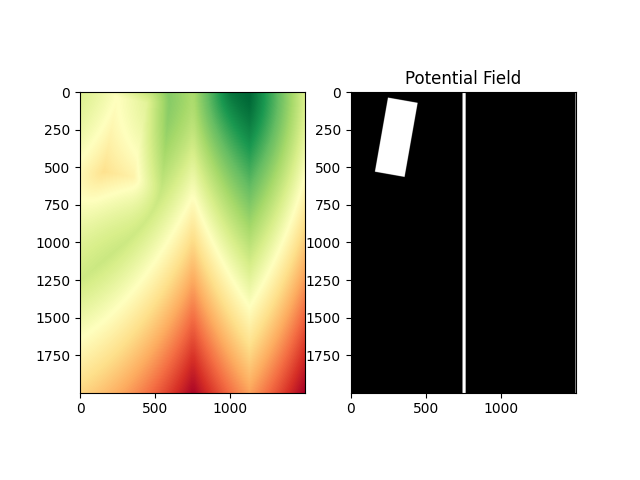
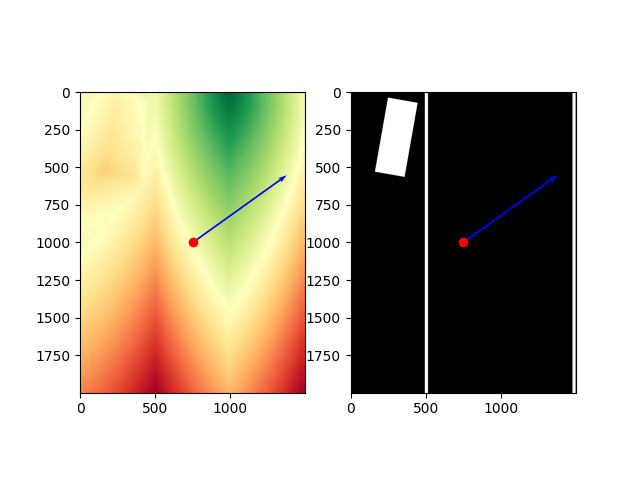
add first working demo

diff --git a/potential_field_sim/potentialField.py b/potential_field_sim/potentialField.py
@@ -1,5 +1,5 @@
-from skimage.draw import polygon
 from scipy.ndimage import distance_transform_edt
+from skimage.draw import polygon
 import numpy as np
 import matplotlib.pyplot as plt
 
@@ -12,16 +12,23 @@ class PotentialField:
     Its Goal is, to use the Resulting force of a Force field to ensure
     smooth steering around potential obstacles.
     """
-    def __init__(self, slope_angle: float,
-                 obstructions: list[Obstruction],
-                 next_waypoint: tuple[float],
-                 dimensions: tuple[float] = (20, 15)) -> None:
+
+    def __init__(
+        self,
+        slope_angle: float,
+        obstructions: list[Obstruction],
+        next_waypoint: tuple[float],
+        dimensions: tuple[float] = (20, 15),
+    ) -> None:
 
         self.slope_angle: float = slope_angle
         self.obstructions: list[Obstruction] = obstructions
-        self.DIMENSIONS = [dimension*100 for dimension in dimensions]
+        self.DIMENSIONS = [dimension * 100 for dimension in dimensions]
         self.field = None
         self.obstruction_map = None
+        self.gradient = None
+        self.car_position = (self.DIMENSIONS[1] // 2, self.DIMENSIONS[0] // 2)
+        self.force_vector = None
 
         self.generate_field()
 
@@ -33,7 +40,7 @@ class PotentialField:
         """
         self.obstructions.append(obstruction)
         self.generate_field()
-    
+
     def get_vector(self, waypoint: tuple[float]) -> tuple[float]:
         """Calcutlates the Direction and Strength of the Resulting
         Force of the Potential Field
@@ -49,19 +56,26 @@ class PotentialField:
         # Obstacle Heatmap
         distances = distance_transform_edt(self.field == 0)
 
-        k = .001
+        k = 0.001
         smoothed_values = np.exp(-k * distances)
         self.field[self.field == 0] = smoothed_values[self.field == 0]
 
         # Waypoint Following
-        x, y = np.meshgrid(range(self.DIMENSIONS[1]),
-                           range(self.DIMENSIONS[0]))
+        x, y = np.meshgrid(range(self.DIMENSIONS[1]), range(self.DIMENSIONS[0]))
 
-        distances = np.sqrt((x-waypoint[0])**2 + (y-waypoint[1])**2)
-        gradient = (distances / distances.max())
-        self.field += gradient
+        distances = np.sqrt((x - waypoint[0]) ** 2 + (y - waypoint[1]) ** 2)
+        slope = distances / distances.max()
+        self.field += slope
 
-        return (0, 0)
+        gradient_y, gradient_x = np.gradient(self.field)
+
+        gradient_at_car_x = gradient_x[self.car_position]
+        gradient_at_car_y = gradient_y[self.car_position]
+
+        self.force_vector = (gradient_at_car_x, gradient_at_car_y)
+
+        print(self.force_vector)
+        return self.force_vector
 
     def generate_field(self):
         """generates the field.
@@ -74,7 +88,7 @@ class PotentialField:
         if self.field is None:
             # generate the field with a resolution of 1 cm.
             self.field = np.zeros(self.DIMENSIONS, dtype=np.float32)
-        
+
         if self.obstruction_map is None:
             self.obstruction_map = np.zeros(self.DIMENSIONS, dtype=np.float32)
 
@@ -82,13 +96,49 @@ class PotentialField:
         for obstruction in self.obstructions:
             self.place_obstruction(obstruction=obstruction)
 
-    def plot(self, save=False, show=True) -> None:
-        """shows the field
-        """
+    def plot(self, save=False, show=True, plot_car=True, plot_vector=True) -> None:
+        """shows the field"""
+
+        VECTORSCALE = 1e6
+
         fig, axes = plt.subplots(1, 2)
         axes[0].imshow(self.field, cmap="RdYlGn_r")
         axes[1].imshow(self.obstruction_map, cmap="grey")
-        plt.title("Potential Field")
+        if plot_car:
+            axes[0].scatter(
+                self.car_position[0],
+                self.car_position[1],
+                color="red",
+                label="Car Position",
+                zorder=5,
+            )
+            axes[1].scatter(
+                self.car_position[0],
+                self.car_position[1],
+                color="red",
+                label="Car Position",
+                zorder=5,
+            )
+        if plot_vector:
+            axes[0].quiver(
+                self.car_position[0],
+                self.car_position[1],
+                self.force_vector[0] * VECTORSCALE,
+                self.force_vector[1] * VECTORSCALE,
+                color="blue",
+                scale_units="xy",
+                scale=1,
+            )
+            axes[1].quiver(
+                self.car_position[0],
+                self.car_position[1],
+                self.force_vector[0] * VECTORSCALE,
+                self.force_vector[1] * VECTORSCALE,
+                color="blue",
+                scale_units="xy",
+                scale=1,
+            )
+
         if save:
             plt.savefig("potential_field.png")
         if show:
@@ -101,21 +151,31 @@ class PotentialField:
             obstruction (Obstruction): the obstruction to place
         """
         # Compute the rectangle's vertices in its local coordinates
-        rect_x = np.array([-obstruction.dimensions[0] / 2,
-                           obstruction.dimensions[0] / 2,
-                           obstruction.dimensions[0] / 2,
-                           -obstruction.dimensions[0] / 2])
-        rect_y = np.array([-obstruction.dimensions[1] / 2,
-                           -obstruction.dimensions[1] / 2,
-                           obstruction.dimensions[1] / 2,
-                           obstruction.dimensions[1] / 2])
+        rect_x = np.array(
+            [
+                -obstruction.dimensions[0] / 2,
+                obstruction.dimensions[0] / 2,
+                obstruction.dimensions[0] / 2,
+                -obstruction.dimensions[0] / 2,
+            ]
+        )
+        rect_y = np.array(
+            [
+                -obstruction.dimensions[1] / 2,
+                -obstruction.dimensions[1] / 2,
+                obstruction.dimensions[1] / 2,
+                obstruction.dimensions[1] / 2,
+            ]
+        )
 
         # Compute rotation matrix
         rad_angle = np.deg2rad(obstruction.rotation)
-        rotation_matrix = np.array([
-            [np.cos(rad_angle), -np.sin(rad_angle)],
-            [np.sin(rad_angle), np.cos(rad_angle)],
-        ])
+        rotation_matrix = np.array(
+            [
+                [np.cos(rad_angle), -np.sin(rad_angle)],
+                [np.sin(rad_angle), np.cos(rad_angle)],
+            ]
+        )
 
         # Apply rotation
         rotated_vertices = np.dot(rotation_matrix, np.vstack((rect_x, rect_y)))
@@ -123,25 +183,29 @@ class PotentialField:
         rotated_vertices[0] += obstruction.position[0]
         rotated_vertices[1] += obstruction.position[1]
 
-        rr, cc = polygon(rotated_vertices[1],
-                         rotated_vertices[0],
-                         self.field.shape)
+        rr, cc = polygon(rotated_vertices[1], rotated_vertices[0], self.field.shape)
         self.field[rr, cc] = 1
         self.obstruction_map[rr, cc] = 1
 
 
 if __name__ == "__main__":
-    obs = list()
+    obs = []
     # car
     obs.append(Obstruction((200, 500), (300, 300), 10))
-    
+
     field = PotentialField(10, obs, (0, 0))
     # lines
     field.add_obstruction(
-        Obstruction(position=(field.DIMENSIONS[1], field.DIMENSIONS[0]//2),
-                    dimensions=(20, field.DIMENSIONS[0])))
+        Obstruction(
+            position=(field.DIMENSIONS[1] - 20, field.DIMENSIONS[0] // 2),
+            dimensions=(20, field.DIMENSIONS[0]),
+        )
+    )
     field.add_obstruction(
-        Obstruction(position=(field.DIMENSIONS[1]//2, field.DIMENSIONS[0]//2),
-                    dimensions=(20, field.DIMENSIONS[0])))
-    field.get_vector(waypoint=(field.DIMENSIONS[0]//2, 0))
+        Obstruction(
+            position=(field.DIMENSIONS[1] // 3, field.DIMENSIONS[0] // 2),
+            dimensions=(20, field.DIMENSIONS[0]),
+        )
+    )
+    field.get_vector(waypoint=(field.DIMENSIONS[0] // 2, 0))
     field.plot(save=True, show=False)

diff --git a/potential_field_sim/test.py b/potential_field_sim/test.py
@@ -2,10 +2,11 @@ import numpy as np
 import matplotlib.pyplot as plt
 from scipy.ndimage import rotate
 
+
 def draw_rotated_rectangle(array, center, dimensions, angle):
     """
     Draws a rotated rectangle on a numpy array.
-    
+
     Parameters:
         array (ndarray): The numpy array to draw on.
         center (tuple): (cx, cy) coordinates of the rectangle center.
@@ -17,27 +18,35 @@ def draw_rotated_rectangle(array, center, dimensions, angle):
     rect_array = np.zeros_like(array)
 
     # Compute the rectangle's vertices in its local coordinates
-    rect_x = np.array([-rect_width / 2, rect_width / 2, rect_width / 2, -rect_width / 2])
-    rect_y = np.array([-rect_height / 2, -rect_height / 2, rect_height / 2, rect_height / 2])
-    
+    rect_x = np.array(
+        [-rect_width / 2, rect_width / 2, rect_width / 2, -rect_width / 2]
+    )
+    rect_y = np.array(
+        [-rect_height / 2, -rect_height / 2, rect_height / 2, rect_height / 2]
+    )
+
     # Compute rotation matrix
     rad_angle = np.deg2rad(angle)
-    rotation_matrix = np.array([
-        [np.cos(rad_angle), -np.sin(rad_angle)],
-        [np.sin(rad_angle), np.cos(rad_angle)],
-    ])
-    
+    rotation_matrix = np.array(
+        [
+            [np.cos(rad_angle), -np.sin(rad_angle)],
+            [np.sin(rad_angle), np.cos(rad_angle)],
+        ]
+    )
+
     # Apply rotation
     rotated_vertices = np.dot(rotation_matrix, np.vstack((rect_x, rect_y)))
-    
+
     # Translate vertices to center
     rotated_vertices[0] += center[0]
     rotated_vertices[1] += center[1]
-    
+
     # Draw the rectangle
     from skimage.draw import polygon
+
     rr, cc = polygon(rotated_vertices[1], rotated_vertices[0], array.shape)
     array[rr, cc] = 1
+
 
 # Example usage
 array_size = (200, 200)  # Size of the numpy array
@@ -49,6 +58,6 @@ array = np.zeros(array_size, dtype=np.int32)
 draw_rotated_rectangle(array, rectangle_center, rectangle_dimensions, rectangle_angle)
 
 # Visualize
-plt.imshow(array, cmap='gray')
+plt.imshow(array, cmap="gray")
 plt.title("Rotated Rectangle")
 plt.show()
